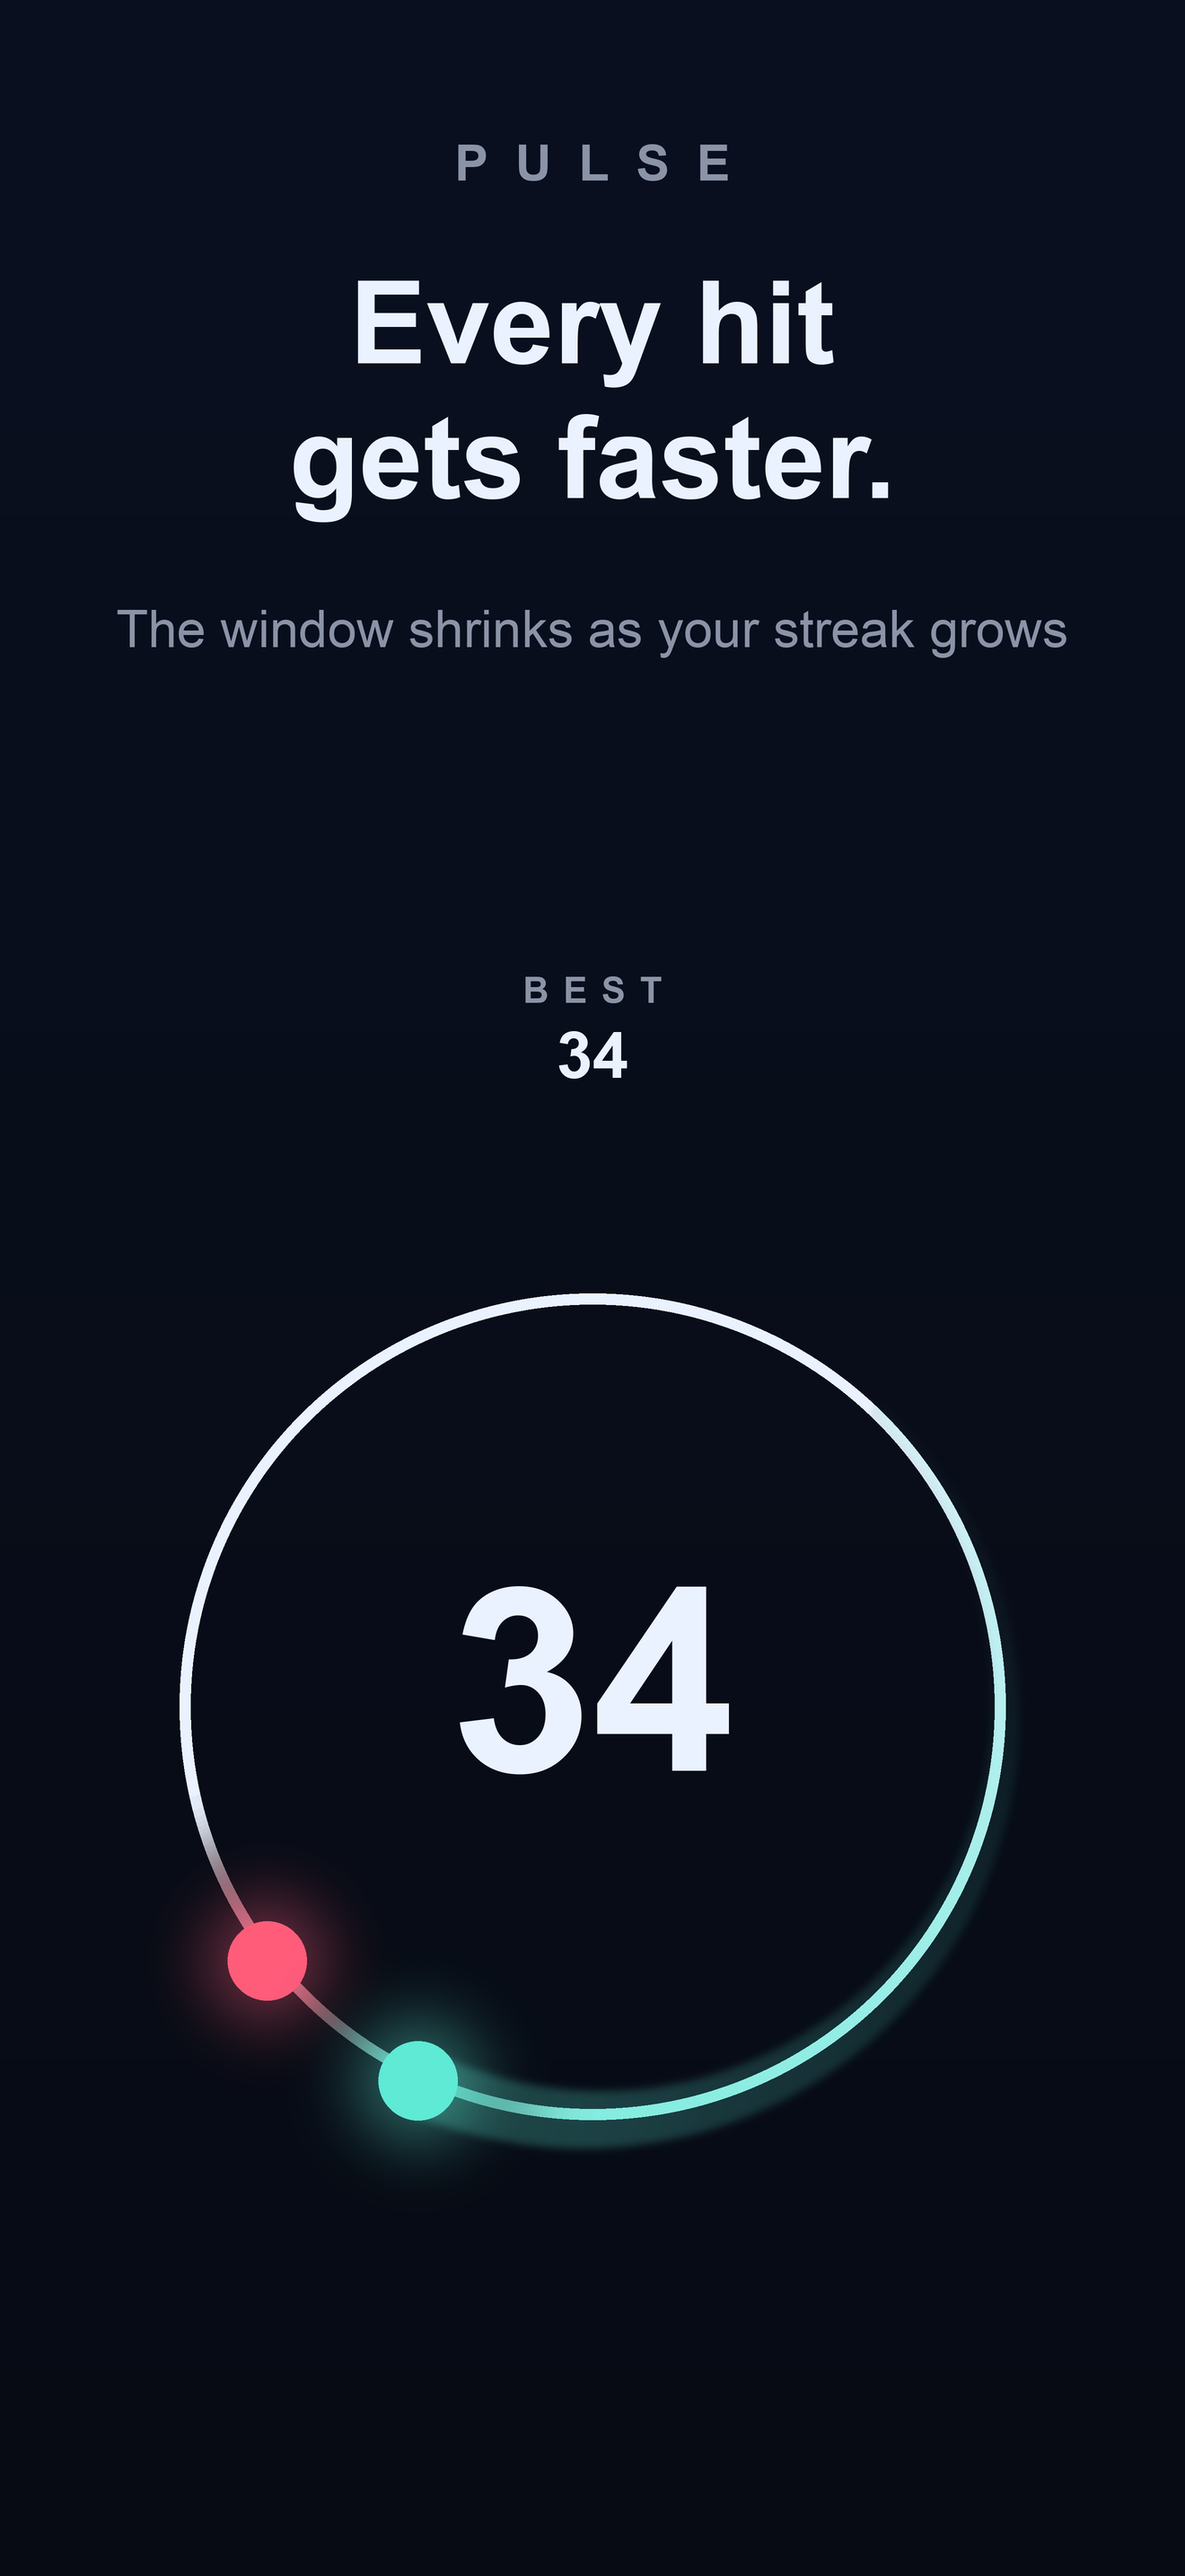
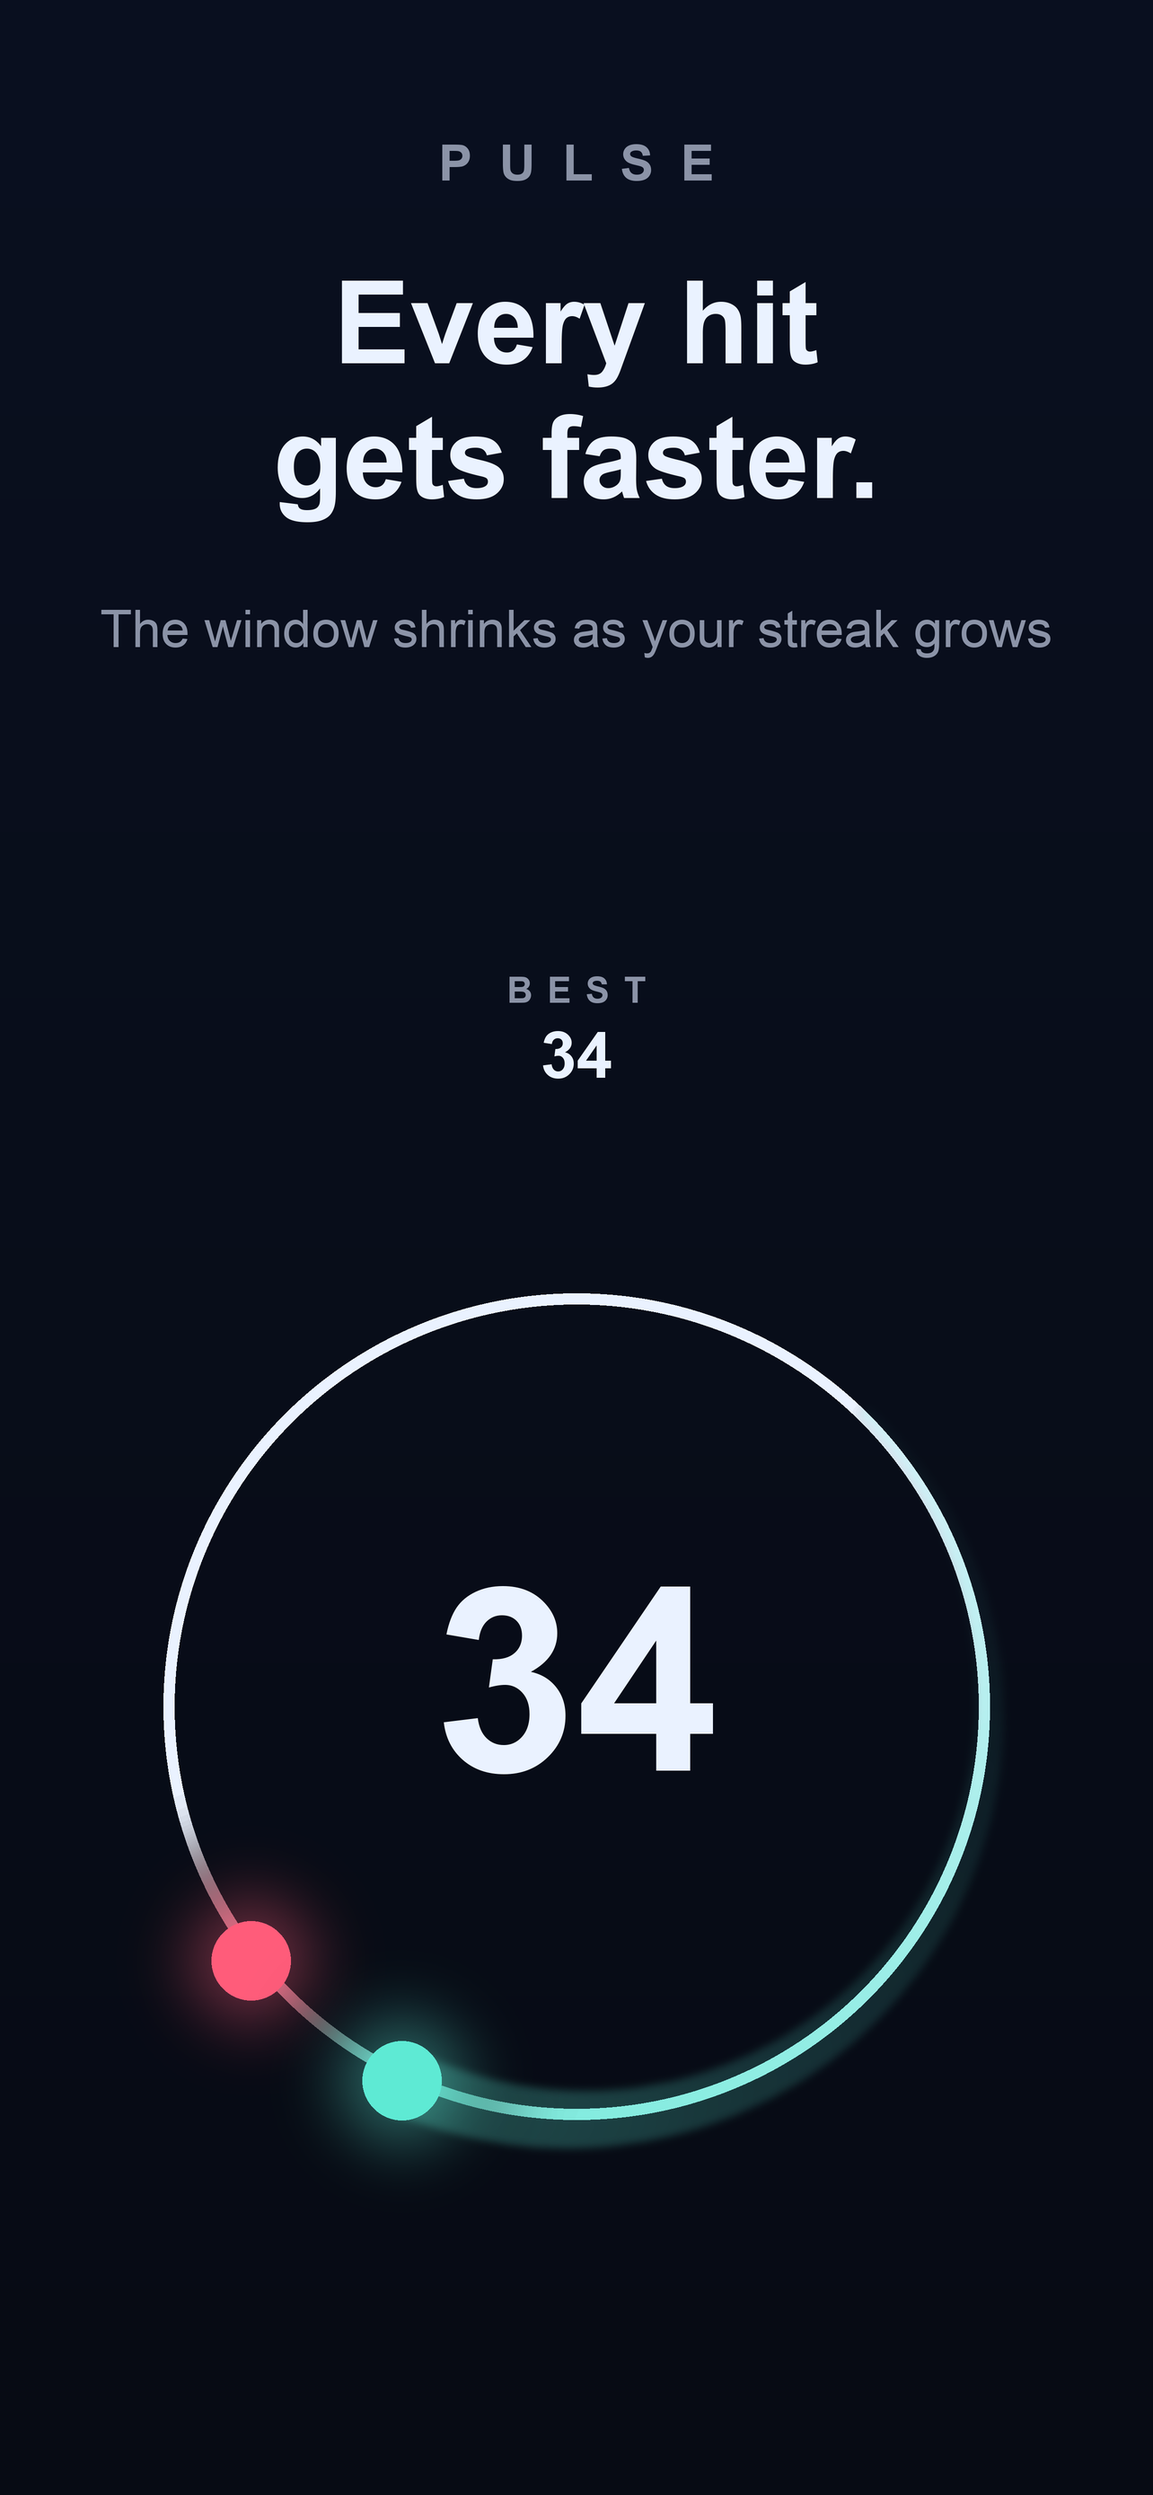
fix: regenerate App Store screenshots at 1284x2778
App Store Connect rejected 1320x2868 for this app record's iPhone slot;
6.5-inch tier (1284x2778) is in its accepted list.

diff --git a/scripts/make_screenshots.py b/scripts/make_screenshots.py
@@ -5,7 +5,7 @@ import os
 from PIL import Image, ImageDraw, ImageFilter, ImageFont
 
 OUT = os.path.join(os.path.dirname(os.path.abspath(__file__)), "..", "store", "screenshots")
-W, H = 1320, 2868
+W, H = 1284, 2778
 SS = 2  # supersample
 BG_TOP = (10, 16, 32)
 BG_BOTTOM = (7, 11, 20)

diff --git a/store/app-store-listing.md b/store/app-store-listing.md
@@ -119,9 +119,9 @@ First release. One tap, one ring, one score to beat.
 
 ## Screenshots
 
-`store/screenshots/` — four 1320×2868 PNGs (6.9-inch iPhone tier; App Store
-Connect scales this size down for all smaller iPhones, so one set is enough).
-Upload in this order:
+`store/screenshots/` — four 1284×2778 PNGs (6.5-inch iPhone tier, one of the
+sizes App Store Connect accepts for the required iPhone slot; it scales this
+set for all other iPhones). Upload in this order:
 
 1. `1-one-tap.png` — One tap. Perfect timing.
 2. `2-faster.png` — Every hit gets faster.
